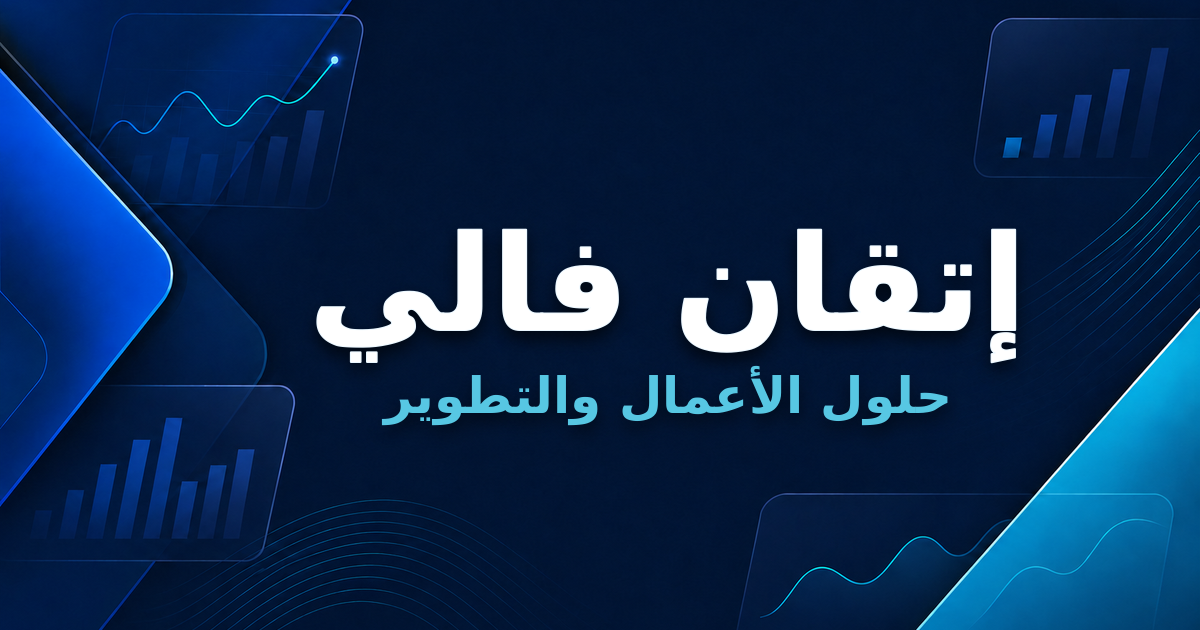
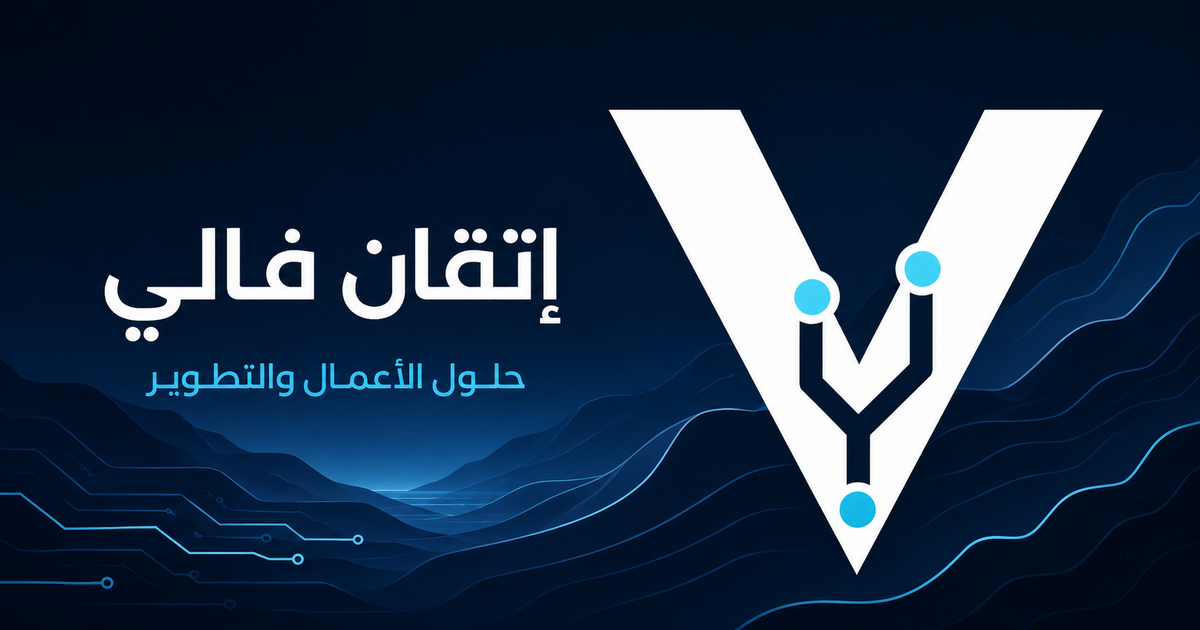
تطوير شعار V بهوية الوادي والتقنية

diff --git a/app/globals.css b/app/globals.css
@@ -16,3 +16,7 @@
 footer{padding:60px max(6vw,48px) 32px;background:var(--navy-2);color:#fff;display:grid;grid-template-columns:1fr 1fr;gap:30px;align-items:start}.footer-brand img{width:48px;height:48px}.footer-brand small{color:var(--cyan)}footer>p{color:#aebfce;line-height:1.8;max-width:470px;margin:0}.footer-links{display:flex;gap:24px;color:#d9e4ec}.footer-links a:hover,.footer-contact a:hover{color:var(--cyan)}.footer-contact{display:grid;gap:12px;padding:22px 24px;border:1px solid #2b4257;border-radius:16px;background:#ffffff05}.footer-contact strong{color:var(--cyan);margin-bottom:2px}.footer-contact a{display:flex;align-items:center;gap:10px;color:#d9e4ec;width:max-content;max-width:100%}.footer-contact .contact-icon{color:var(--cyan)}.footer-legal{color:#778da0;grid-column:1/-1;border-top:1px solid #2b4257;padding-top:25px;margin-top:20px;display:flex;justify-content:space-between;gap:18px;flex-wrap:wrap}.footer-legal small{font-size:inherit}.footer-legal b{color:#aebfce;font-weight:600}
 @media(max-width:1050px){.nav-links{display:none}.hero{grid-template-columns:1fr;padding-top:60px}.hero-copy{text-align:center}.eyebrow,.hero-actions,.trust-row{justify-content:center}.hero-lead{margin-inline:auto}.hero-visual{min-height:480px}.product-grid,.comparison-section,.order-section{grid-template-columns:1fr}.workflow-grid{grid-template-columns:repeat(3,1fr)}.section-heading{align-items:start;flex-direction:column;gap:22px}.services-grid,.catalog-grid{grid-template-columns:1fr 1fr}.packages-grid{grid-template-columns:1fr}.packages-grid article.featured{transform:none}}
 @media(max-width:680px){.nav-shell{height:76px;padding:0 18px}.nav-cta{font-size:12px;padding:10px 13px}.brand{gap:9px}.brand img{width:40px;height:40px}.brand b{font-size:24px}.brand small{display:none}.hero{padding:54px 22px 70px}.hero h1{font-size:43px}.hero-lead{font-size:17px}.hero-visual{min-height:400px}.hero-packages{width:100%;gap:9px;transform:none}.hero-package{min-height:184px;padding:16px;border-radius:17px}.hero-package h2{font-size:20px;margin:20px 0 6px}.hero-package p{font-size:11px}.hero-package b{font-size:11px;padding-top:10px}.package-code span{min-width:37px;height:29px;font-size:10px}.package-code small{font-size:8px}.proof-strip{gap:8px;font-size:11px;min-height:68px;padding:12px 16px;flex-wrap:wrap}.section{padding:76px 22px}.section-heading h2,.comparison-copy h2{font-size:36px}.product-grid{gap:36px}.product-details h3{font-size:29px}.price-box{align-items:stretch;flex-direction:column}.workflow-grid,.services-grid,.comparison-cards,.catalog-grid{grid-template-columns:1fr}.workflow-grid article{min-height:190px}.workflow-grid h3{margin-top:28px}.catalog-card{min-height:285px}.order-section{margin:0 14px 30px;padding:54px 24px;gap:35px}.order-section h2{font-size:36px}.order-links{display:grid;gap:10px}footer{grid-template-columns:1fr;padding:50px 22px 30px}.footer-links{flex-wrap:wrap}.footer-brand small{display:block}.footer-legal{display:grid}}
+
+/* هوية الشعار: V أكبر يجمع الوادي والمسار التقني */
+.nav-shell{height:104px}.brand{gap:16px}.brand img{width:66px;height:66px;filter:drop-shadow(0 10px 24px #57c7e347)}.footer-brand img{width:60px;height:60px}
+@media(max-width:680px){.nav-shell{height:84px}.brand{gap:10px}.brand img{width:50px;height:50px}}
